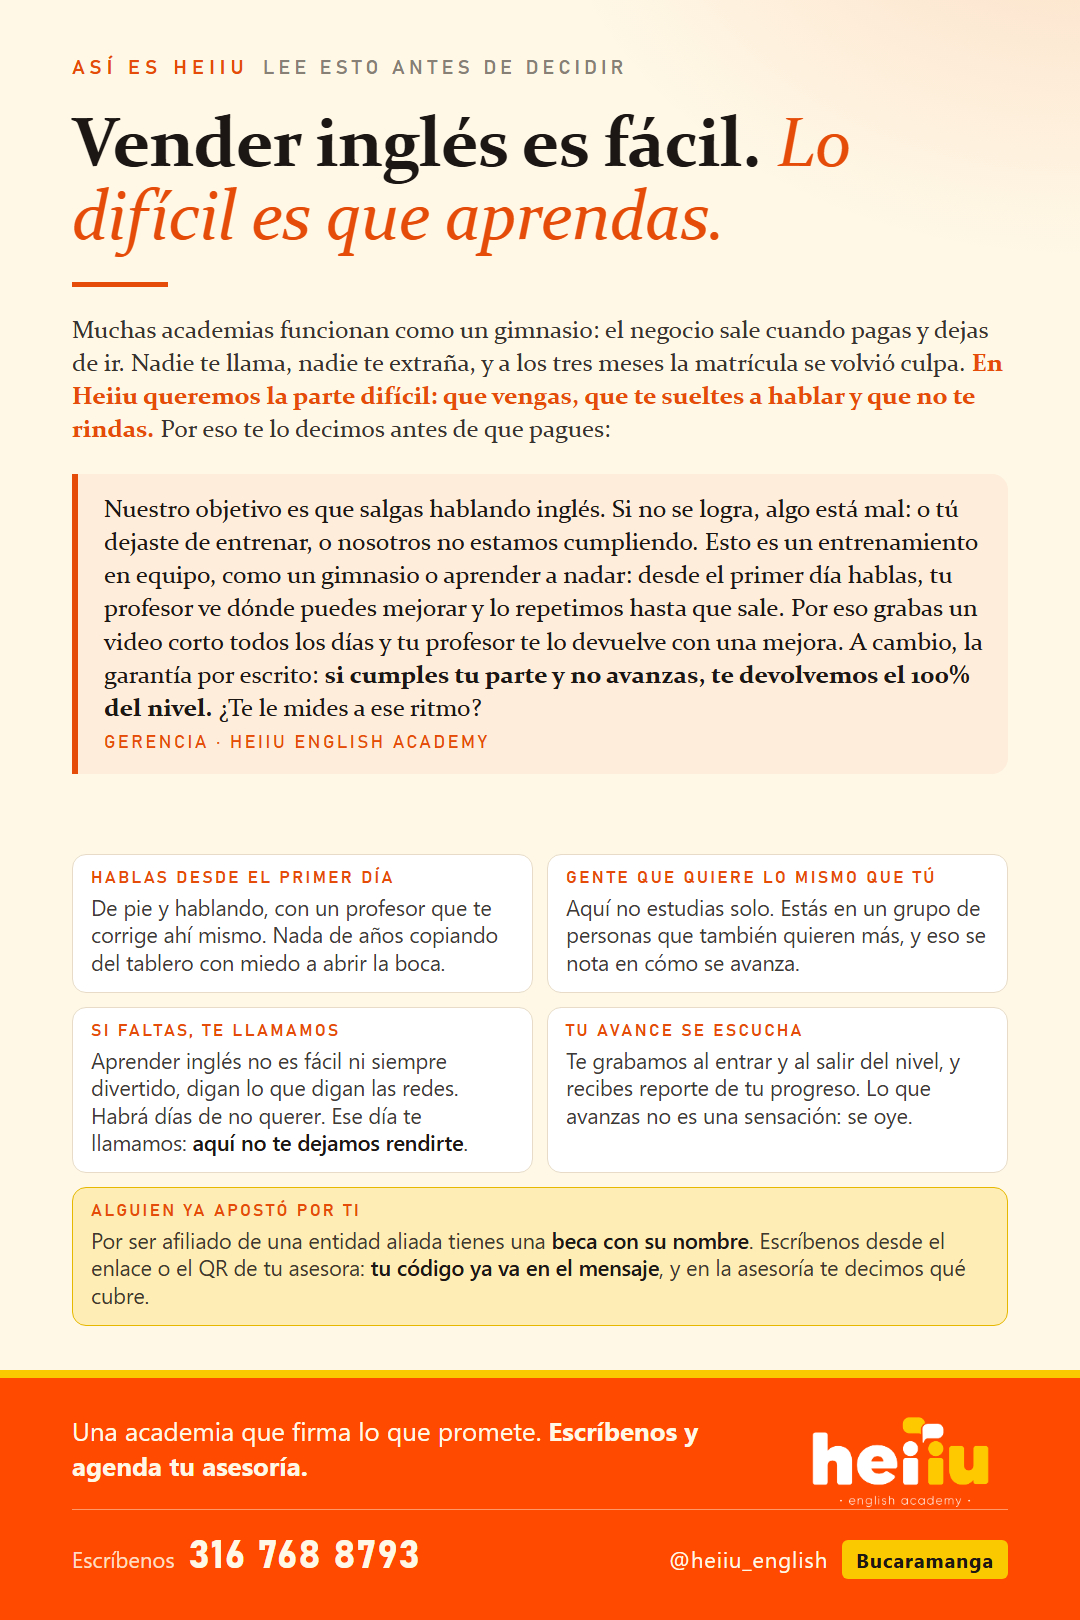
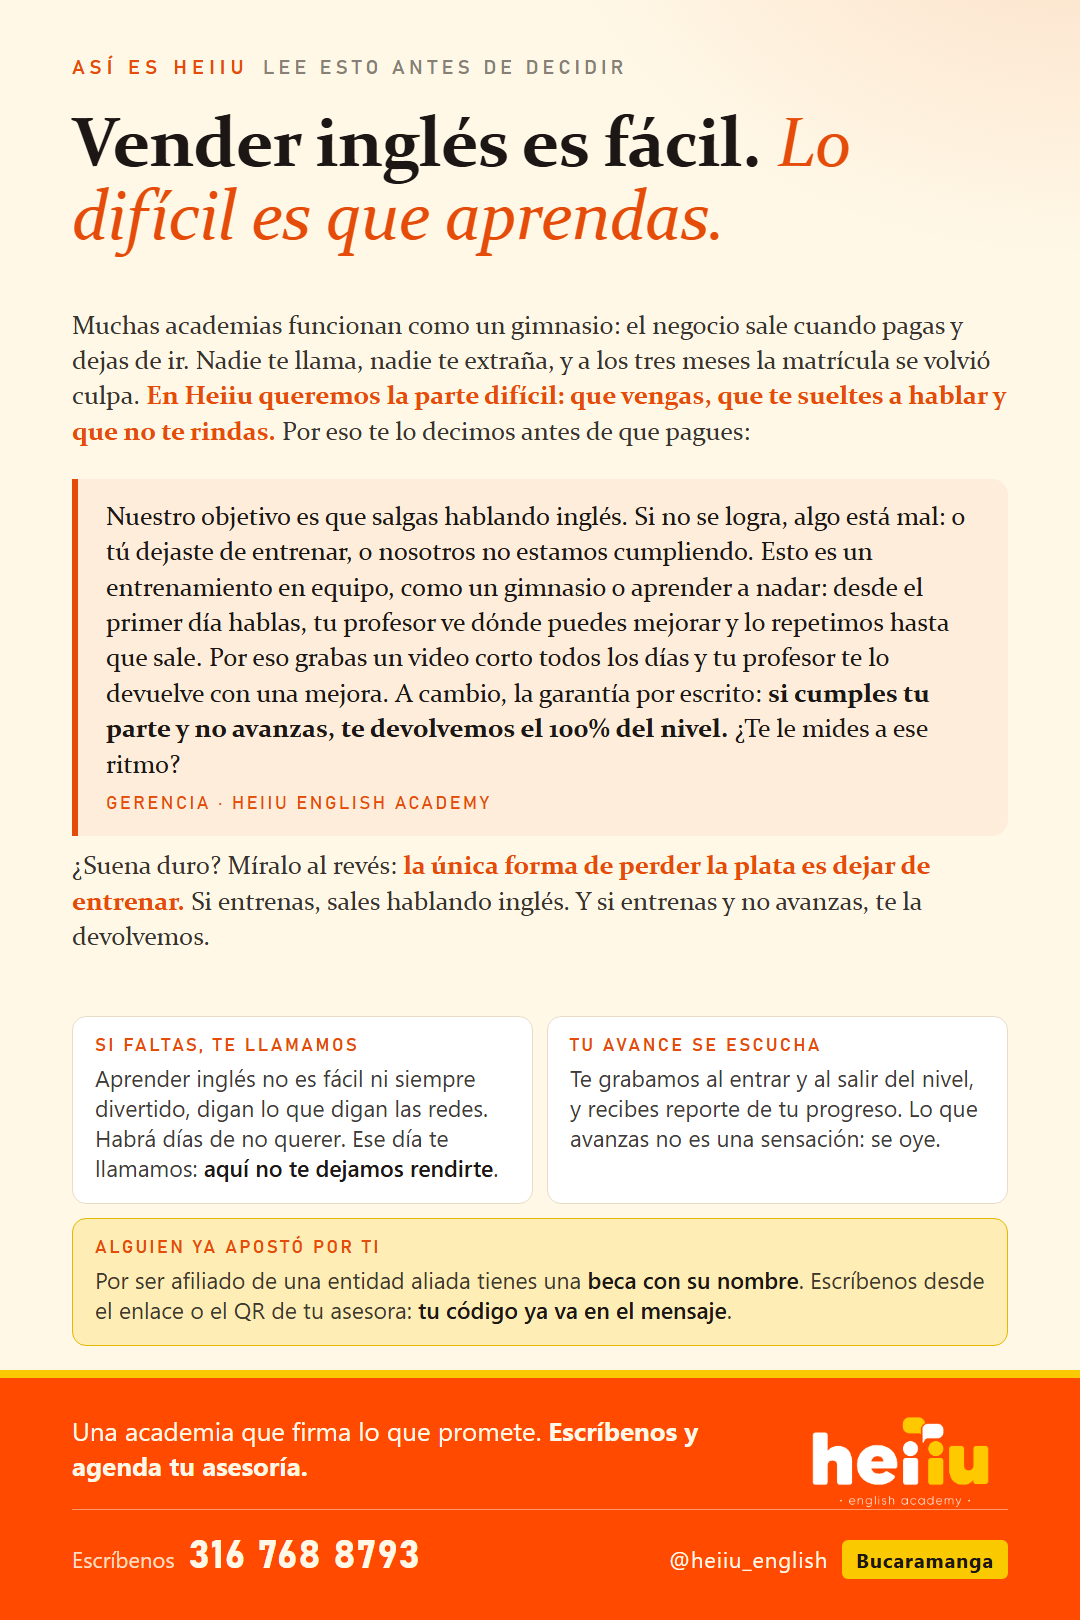
Pieza general respaldo: respuesta al 'suena duro' (la unica forma de perder la plata es dejar de entrenar); fuera las dos tarjetas repetidas, quedan llamada si faltas, avance y beca

Changed region(s): [[0.0611, 0.4938, 0.9472, 0.8333], [0.0917, 0.3086, 0.9167, 0.4938], [0.0611, 0.1852, 0.9472, 0.2778]]

diff --git a/generadores/comercial/gen_piezas_conciencia.py b/generadores/comercial/gen_piezas_conciencia.py
@@ -71,6 +71,7 @@ ol.st p b { color: #FFF8E7; font-weight: 600 }
 .why p { font-size: 25px; line-height: 1.3; color: rgba(255,248,231,.86) }
 .why p b { color: #FFF8E7; font-weight: 600 }
 .intro { font-family: Constantia, Georgia, serif; font-size: 27px; line-height: 1.36; color: rgba(255,248,231,.88); margin: 0 0 22px 0 } .intro b { color: #FBC900 }
+.intro.after { margin: 12px 0 0 0 }
 blockquote { margin-top: 10px; padding: 22px 28px 22px 30px; border-left: 6px solid #FBC900; background: rgba(255,248,231,.06); border-radius: 0 16px 16px 0;
              font-family: Constantia, Georgia, serif; font-size: 27px; line-height: 1.36; color: #FFF8E7 }
 blockquote b { font-weight: 700 } blockquote cite { display: block; font-style: normal; font-family: Bahnschrift, sans-serif; font-size: 18px; letter-spacing: .14em; color: #FBC900; margin-top: 12px }
@@ -124,12 +125,11 @@ PIEZAS = {
                'Por eso grabas un video corto todos los días y tu profesor te lo devuelve con una mejora. A cambio, la garantía por escrito: '
                '<b>si cumples tu parte y no avanzas, te devolvemos el 100% del nivel.</b> ¿Te le mides a ese ritmo?'),
         cite='GERENCIA · HEIIU ENGLISH ACADEMY',
+        after='¿Suena duro? Míralo al revés: <b>la única forma de perder la plata es dejar de entrenar.</b> Si entrenas, sales hablando inglés. Y si entrenas y no avanzas, te la devolvemos.',
         st=[], lead='', big='', big2='',
-        why=[('HABLAS DESDE EL PRIMER DÍA', 'De pie y hablando, con un profesor que te corrige ahí mismo. Nada de años copiando del tablero con miedo a abrir la boca.', False),
-             ('GENTE QUE QUIERE LO MISMO QUE TÚ', 'Aquí no estudias solo. Estás en un grupo de personas que también quieren más, y eso se nota en cómo se avanza.', False),
-             ('SI FALTAS, TE LLAMAMOS', 'Aprender inglés no es fácil ni siempre divertido, digan lo que digan las redes. Habrá días de no querer. Ese día te llamamos: <b>aquí no te dejamos rendirte</b>.', False),
+        why=[('SI FALTAS, TE LLAMAMOS', 'Aprender inglés no es fácil ni siempre divertido, digan lo que digan las redes. Habrá días de no querer. Ese día te llamamos: <b>aquí no te dejamos rendirte</b>.', False),
              ('TU AVANCE SE ESCUCHA', 'Te grabamos al entrar y al salir del nivel, y recibes reporte de tu progreso. Lo que avanzas no es una sensación: se oye.', False),
-             ('ALGUIEN YA APOSTÓ POR TI', 'Por ser afiliado de una entidad aliada tienes una <b>beca con su nombre</b>. Escríbenos desde el enlace o el QR de tu asesora: <b>tu código ya va en el mensaje</b>, y en la asesoría te decimos qué cubre.', True)],
+             ('ALGUIEN YA APOSTÓ POR TI', 'Por ser afiliado de una entidad aliada tienes una <b>beca con su nombre</b>. Escríbenos desde el enlace o el QR de tu asesora: <b>tu código ya va en el mensaje</b>.', True)],
         band='Una academia que firma lo que promete. <b>Escríbenos y agenda tu asesoría.</b>',
         band_px=250),
     '1_PROFESIONALES': dict(
@@ -197,9 +197,9 @@ COMPACT = """
 .top { padding-top: 56px; padding-bottom: 44px } h1 { font-size: 70px; margin-top: 26px } .rule { margin: 30px 0 26px 0 }
 ol.st li { padding: 19px 0 17px 0 } ol.st p { font-size: 28px; line-height: 1.32 }
 .pivot { padding-top: 26px } .pivot .lead { font-size: 33px } .pivot .big { font-size: 48px; margin-top: 10px } .pivot .big2 { font-size: 36px; margin-top: 18px } .fn { margin-top: 14px }
-.why { margin-top: 28px } .why h2 { font-size: 38px; margin-bottom: 14px } .why .grid { gap: 14px }
-.why .card { padding: 14px 18px 16px 18px; border-radius: 14px } .why .k { font-size: 17px; margin-bottom: 5px } .why p { font-size: 21.5px; line-height: 1.27 }
-.intro { font-size: 25px; line-height: 1.33; margin-bottom: 18px } blockquote { font-size: 25px; line-height: 1.33; padding: 18px 24px 18px 26px } blockquote cite { margin-top: 8px }
+.why { margin-top: 26px } .why h2 { font-size: 38px; margin-bottom: 14px } .why .grid { gap: 14px }
+.why .card { padding: 18px 22px 20px 22px; border-radius: 14px } .why .k { font-size: 18px; margin-bottom: 6px } .why p { font-size: 23px; line-height: 1.3 }
+.intro { font-size: 26px; line-height: 1.36; margin-bottom: 20px } blockquote { font-size: 26px; line-height: 1.36; padding: 20px 26px 20px 28px } blockquote cite { margin-top: 10px }
 """
 
 
@@ -211,6 +211,7 @@ def html(c):
     why = ''
     quote = ('<blockquote>%s<cite>%s</cite></blockquote>' % (c['quote'], c.get('cite', ''))) if c.get('quote') else ''
     if c.get('intro'): quote = '<p class="intro">%s</p>' % c['intro'] + quote
+    if c.get('after'): quote += '<p class="intro after">%s</p>' % c['after']
     fn = ('<div class="fn">%s</div>' % c['fn']) if c.get('fn') else ''
     if c.get('why'):
         cards = ''.join('<div class="card%s"><div class="k">%s</div><p>%s</p></div>' % (' full' if full else '', k, t) for k, t, full in c['why'])
